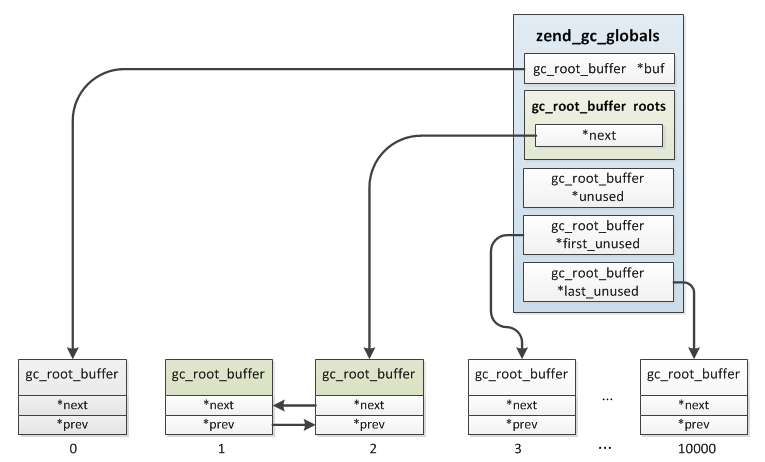
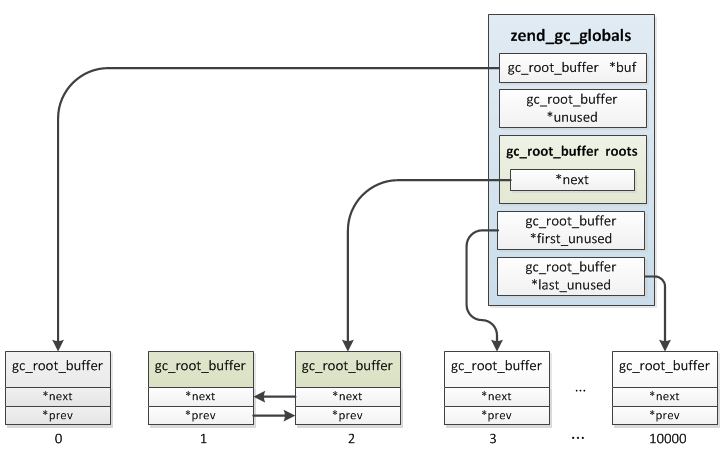
update

Changed region(s): [[0.0, 0.0304, 1.0, 1.0], [0.4862, 0.3043, 0.5166, 0.3652], [0.7901, 0.9435, 0.8204, 0.9739]]

diff --git a/5/gc.md b/5/gc.md
@@ -107,4 +107,16 @@ typedef struct _gc_root_buffer {
 ![](../img/zend_gc_1.png)
 
 * __(4)last_unused:__ 与first_unused类似，指向buf末尾
-* __(5)unused:__ 
+* __(5)unused:__ GC收集变量时会依次从buf中获取可用的gc_root_buffer，这种情况直接取first_unused即可，但是有些变量加入垃圾缓存区之后其refcount又减为0了，这种情况就需要从roots中删掉，因为它不可能是垃圾，这样就导致roots链表并不是像buf分配的那样是连续的，中间会出现一些开始加入后面又删除的节点，这些节点就通过unused串成一个单链表，unused指向链表尾部，下次有新的变量插入roots时优先使用unused的这些节点，其次才是first_unused的，举个例子：
+```php
+$a = array(); //$a ->  zend_array(refcount=1)
+$b = $a;      //$a ->  zend_array(refcount=2)
+              //$b ->
+
+unset($b);    //此时zend_array(refcount=1)，因为refoucnt>0所以加入gc的垃圾缓存区：roots
+unset($a);    //此时zend_array(refcount=0)且gc_info为GC_PURPLE，则从roots链表中删掉
+```
+假如`unset($b)`时插入的是buf中第1个位置，那么`unset($a)`后对应的结构：
+
+![](../img/zend_gc_2.png)
+
